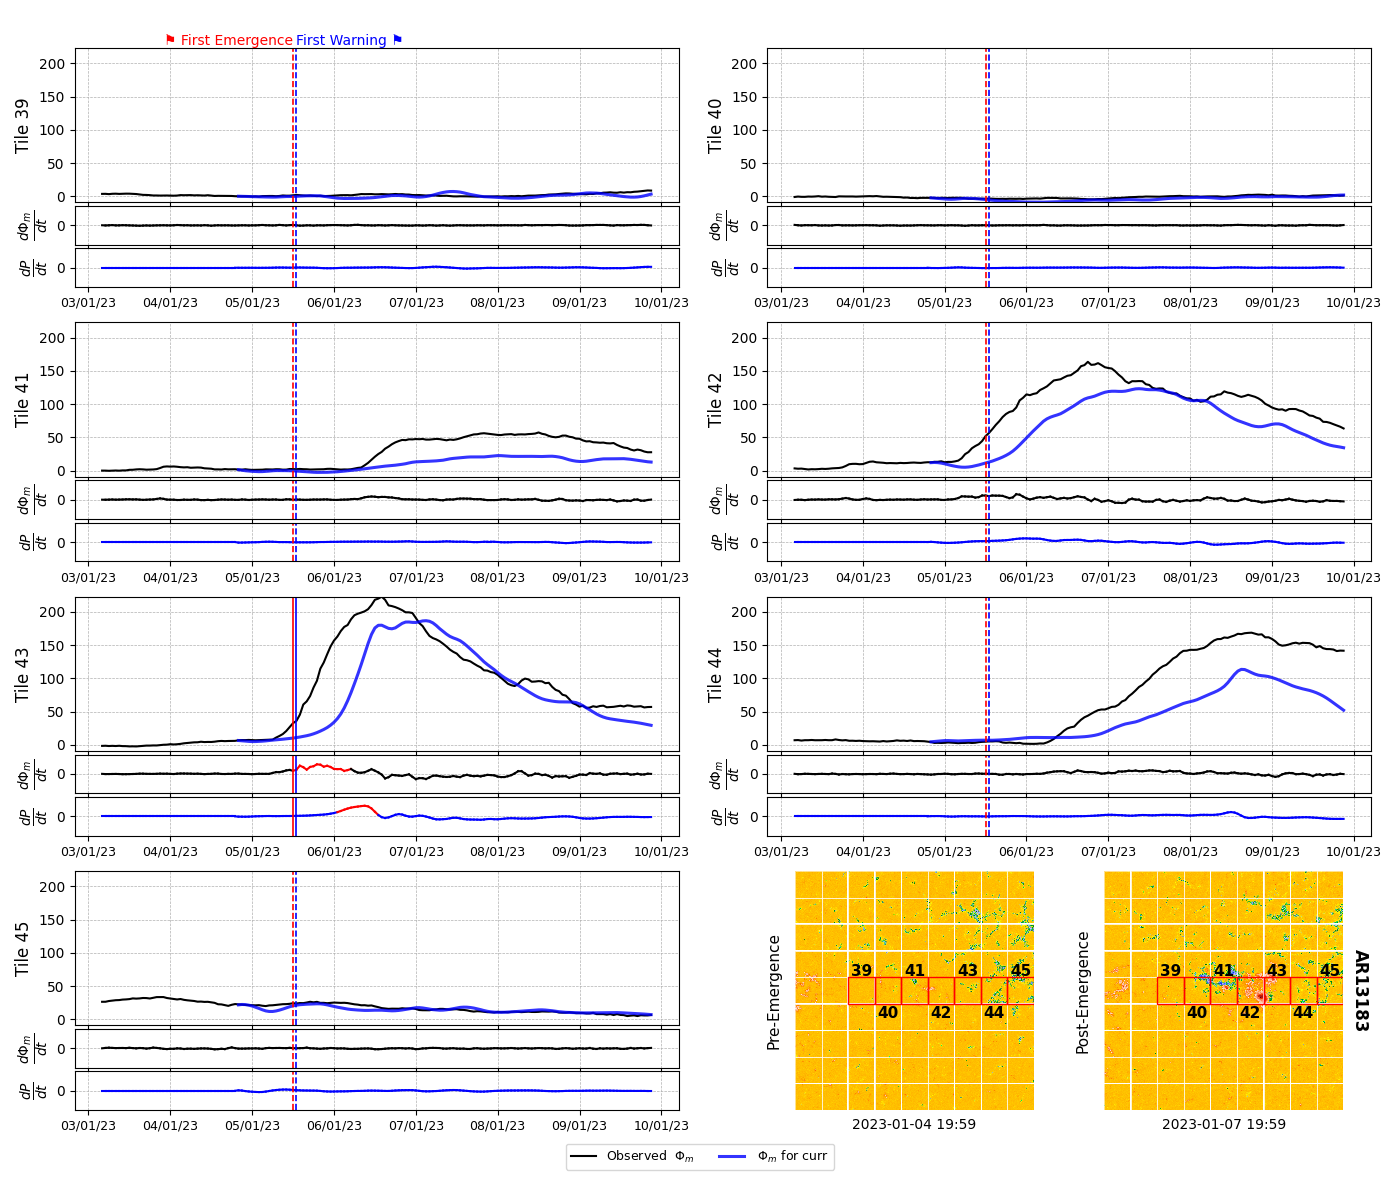
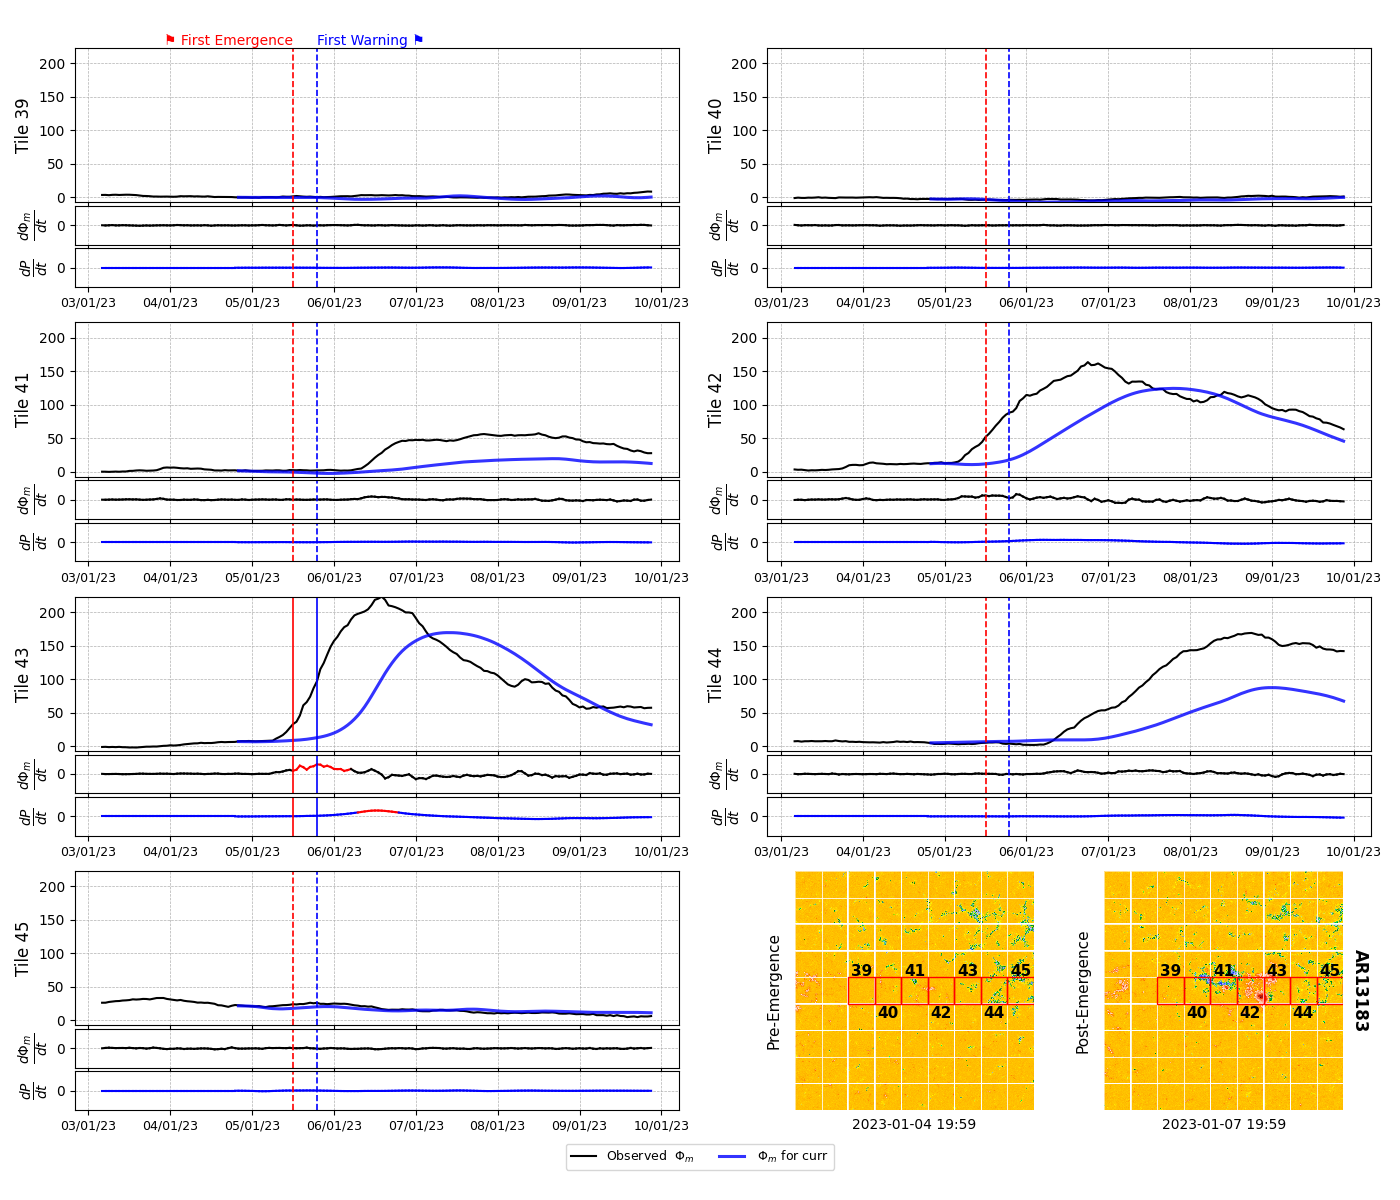
fix: missed prediction fix

diff --git a/lstm/test_lazy_student.py b/lstm/test_lazy_student.py
@@ -1,0 +1,224 @@
+"""Unit test for the 'Lazy Student' fix in emergence timing scoring.
+
+Verifies that:
+1. Flat-line (lazy) models get penalized with max MAE, not 0
+2. Good models that detect emergence get lower MAE
+3. Detection rate = 0 for flat-line, 1.0 for correct predictors
+4. No true emergence → MAE = 0, detection rate = 1.0
+"""
+
+import numpy as np
+import sys
+import os
+
+sys.path.insert(0, os.path.dirname(os.path.abspath(__file__)))
+
+from functions import emergence_indication
+
+
+def compute_emergence_metrics(all_preds_np, all_y_np):
+    """
+    Extracted emergence timing logic from validate_model for isolated testing.
+    Mirrors the exact logic in functions.py validate_model.
+    """
+    threshold = 0.01
+    sust_time = 4
+    num_pred = all_preds_np.shape[1]
+    timing_errors = []
+    true_emergence_count = 0
+    detected_count = 0
+    missed_count = 0
+    false_alarm_count = 0
+
+    for i in range(len(all_preds_np)):
+        d_pred_i = np.gradient(all_preds_np[i])
+        d_true_i = np.gradient(all_y_np[i])
+        ind_pred = emergence_indication(d_pred_i, threshold, sust_time)
+        ind_true = emergence_indication(d_true_i, threshold, sust_time)
+
+        t_pred_i = None
+        t_true_i = None
+        for t_idx in range(len(ind_pred)):
+            if ind_pred[t_idx] == 1 and t_pred_i is None:
+                t_pred_i = t_idx
+            if ind_true[t_idx] == 1 and t_true_i is None:
+                t_true_i = t_idx
+            if t_pred_i is not None and t_true_i is not None:
+                break
+
+        if t_true_i is not None:
+            true_emergence_count += 1
+            if t_pred_i is not None:
+                timing_errors.append(abs(t_pred_i - t_true_i))
+                detected_count += 1
+            else:
+                timing_errors.append(num_pred)
+                missed_count += 1
+        else:
+            if t_pred_i is not None:
+                false_alarm_count += 1
+
+    emergence_timing_mae = np.mean(timing_errors) if timing_errors else 0.0
+    detection_rate = (
+        detected_count / true_emergence_count if true_emergence_count > 0 else 1.0
+    )
+    false_alarm_rate = (
+        false_alarm_count / len(all_preds_np) if len(all_preds_np) > 0 else 0.0
+    )
+
+    return {
+        "MAE": emergence_timing_mae,
+        "Detection_Rate": detection_rate,
+        "False_Alarm_Rate": false_alarm_rate,
+        "True_Emergences": true_emergence_count,
+        "Detected": detected_count,
+        "Missed": missed_count,
+        "False_Alarms": false_alarm_count,
+    }
+
+
+def test_lazy_model_penalized():
+    """A flat-line model should get MAE = num_pred, NOT 0."""
+    print("--- test_lazy_model_penalized ---")
+    num_pred = 12
+
+    # Truth: clear emergence (ramp up starting at step 4)
+    truth = np.zeros((5, num_pred))
+    for i in range(5):
+        truth[i, 4:] = np.linspace(0, 0.5, num_pred - 4)
+
+    # Lazy model: flat line (predicts nothing)
+    lazy_preds = np.ones((5, num_pred)) * 0.5  # constant
+
+    metrics = compute_emergence_metrics(lazy_preds, truth)
+
+    print(f"  Lazy MAE: {metrics['MAE']:.1f} (expected: {num_pred})")
+    print(f"  Detection Rate: {metrics['Detection_Rate']:.2f} (expected: 0.0)")
+    print(f"  Missed: {metrics['Missed']} / {metrics['True_Emergences']}")
+
+    assert metrics["MAE"] == num_pred, (
+        f"Lazy model should get MAE={num_pred}, got {metrics['MAE']}"
+    )
+    assert metrics["Detection_Rate"] == 0.0, (
+        f"Lazy model should have 0 detection rate, got {metrics['Detection_Rate']}"
+    )
+    assert metrics["Missed"] == 5, (
+        f"All 5 emergences should be missed, got {metrics['Missed']}"
+    )
+    print("  PASSED: lazy model correctly penalized\n")
+
+
+def test_good_model_rewarded():
+    """A model that detects emergence correctly should get MAE ≈ 0."""
+    print("--- test_good_model_rewarded ---")
+    num_pred = 12
+
+    # Truth: emergence ramp
+    truth = np.zeros((5, num_pred))
+    for i in range(5):
+        truth[i, 4:] = np.linspace(0, 0.5, num_pred - 4)
+
+    # Good model: matches truth
+    good_preds = truth.copy()
+
+    metrics = compute_emergence_metrics(good_preds, truth)
+
+    print(f"  Good MAE: {metrics['MAE']:.1f} (expected: 0)")
+    print(f"  Detection Rate: {metrics['Detection_Rate']:.2f} (expected: 1.0)")
+
+    assert metrics["MAE"] == 0.0, f"Good model should get MAE=0, got {metrics['MAE']}"
+    assert metrics["Detection_Rate"] == 1.0, (
+        f"Good model should have detection rate 1.0, got {metrics['Detection_Rate']}"
+    )
+    print("  PASSED: good model correctly rewarded\n")
+
+
+def test_good_beats_lazy():
+    """The good model must always score BETTER than the lazy model."""
+    print("--- test_good_beats_lazy ---")
+    num_pred = 12
+
+    truth = np.zeros((5, num_pred))
+    for i in range(5):
+        truth[i, 4:] = np.linspace(0, 0.5, num_pred - 4)
+
+    lazy_preds = np.ones((5, num_pred)) * 0.5
+    good_preds = truth.copy()
+
+    lazy_metrics = compute_emergence_metrics(lazy_preds, truth)
+    good_metrics = compute_emergence_metrics(good_preds, truth)
+
+    print(f"  Lazy MAE: {lazy_metrics['MAE']:.1f}")
+    print(f"  Good MAE: {good_metrics['MAE']:.1f}")
+
+    assert good_metrics["MAE"] < lazy_metrics["MAE"], (
+        f"Good model MAE ({good_metrics['MAE']}) must be lower than lazy ({lazy_metrics['MAE']})"
+    )
+    print("  PASSED: good model beats lazy model\n")
+
+
+def test_no_true_emergence():
+    """When truth has no emergence, MAE=0 and detection rate=1.0 (nothing to miss)."""
+    print("--- test_no_true_emergence ---")
+    num_pred = 12
+
+    # Both flat — no emergence in either
+    truth = np.ones((3, num_pred)) * 0.5
+    preds = np.ones((3, num_pred)) * 0.5
+
+    metrics = compute_emergence_metrics(preds, truth)
+
+    print(f"  MAE: {metrics['MAE']:.1f} (expected: 0)")
+    print(f"  Detection Rate: {metrics['Detection_Rate']:.2f} (expected: 1.0)")
+
+    assert metrics["MAE"] == 0.0, (
+        f"No emergence should give MAE=0, got {metrics['MAE']}"
+    )
+    assert metrics["Detection_Rate"] == 1.0, (
+        f"No emergence should give detection rate=1.0, got {metrics['Detection_Rate']}"
+    )
+    print("  PASSED: no-emergence case handled correctly\n")
+
+
+def test_false_alarm_tracked():
+    """When model predicts emergence but truth has none, false alarm is tracked."""
+    print("--- test_false_alarm_tracked ---")
+    num_pred = 12
+
+    # Truth: flat
+    truth = np.ones((3, num_pred)) * 0.5
+
+    # Prediction: has emergence
+    preds = np.zeros((3, num_pred))
+    for i in range(3):
+        preds[i, 4:] = np.linspace(0, 0.5, num_pred - 4)
+
+    metrics = compute_emergence_metrics(preds, truth)
+
+    print(f"  False Alarms: {metrics['False_Alarms']} (expected: 3)")
+    print(f"  False Alarm Rate: {metrics['False_Alarm_Rate']:.2f}")
+
+    assert metrics["False_Alarms"] == 3, (
+        f"Expected 3 false alarms, got {metrics['False_Alarms']}"
+    )
+    assert metrics["False_Alarm_Rate"] == 1.0, (
+        f"Expected 100% false alarm rate, got {metrics['False_Alarm_Rate']}"
+    )
+    print("  PASSED: false alarms correctly tracked\n")
+
+
+if __name__ == "__main__":
+    print("=" * 60)
+    print("Lazy Student Fix — Unit Tests")
+    print("=" * 60)
+    print()
+
+    test_lazy_model_penalized()
+    test_good_model_rewarded()
+    test_good_beats_lazy()
+    test_no_true_emergence()
+    test_false_alarm_tracked()
+
+    print("=" * 60)
+    print("ALL TESTS PASSED")
+    print("=" * 60)

diff --git a/lstm/grid_search.py b/lstm/grid_search.py
@@ -150,7 +150,7 @@ def main(config, train_data_raw, val_data_raw):  # Accept raw data
     model_name = f"{model_type}_n{config['num_layers']}_h{config['hidden_size']}_lr{config['learning_rate']:.8f}_d{config['dropout']}_w{config['weight_decay']}_{'shuffle' if config['shuffle'] else 'noshuffle'}_custom_weights"
     # Initialize wandb
     wandb.init(
-        project="Active Region RMSE | emergence timing",
+        project="Active Region RMSE | emergence timing missed prediction fix",
         entity=os.environ.get("WANDB_ENTITY"),
         config=config,
         name=f"Fixed_W_0.05_1.0_{model_name}",
@@ -337,9 +337,17 @@ def main(config, train_data_raw, val_data_raw):  # Accept raw data
         val_active_deriv_rmse = val_metrics["Active_Deriv_RMSE"]
         val_bg_rmse = val_metrics["Background_RMSE"]
         val_emergence_mae = val_metrics["Emergence_Timing_MAE"]
+        val_detection_rate = val_metrics["Emergence_Detection_Rate"]
+        val_false_alarm_rate = val_metrics["Emergence_False_Alarm_Rate"]
 
-        # Composite metric: normalize MAE by 0.05 so 1 timestep error ≈ 0.05 RMSE
-        composite_score = 0.8 * val_active_deriv_rmse + 0.2 * (val_emergence_mae * 0.05)
+        # Composite metric: 70% derivative accuracy, 20% emergence timing, 10% detection reliability
+        # Detection penalty ensures models that never predict emergence are punished
+        detection_penalty = 0.2 * (1.0 - val_detection_rate)
+        composite_score = (
+            0.7 * val_active_deriv_rmse
+            + 0.2 * (val_emergence_mae * 0.05)
+            + detection_penalty
+        )
 
         lr = scheduler.get_last_lr()[0]
         # Schedule on composite score
@@ -357,6 +365,8 @@ def main(config, train_data_raw, val_data_raw):  # Accept raw data
             "Active_Deriv_RMSE": val_active_deriv_rmse,
             "Background_RMSE": val_bg_rmse,
             "Emergence_Timing_MAE": val_emergence_mae,
+            "Emergence_Detection_Rate": val_detection_rate,
+            "Emergence_False_Alarm_Rate": val_false_alarm_rate,
             "Composite_Score": composite_score,
         }
 
@@ -380,6 +390,8 @@ def main(config, train_data_raw, val_data_raw):  # Accept raw data
                     "best_weighted_deriv_rmse": val_weighted_deriv_rmse,
                     "best_active_deriv_rmse": val_active_deriv_rmse,
                     "best_emergence_timing_mae": val_emergence_mae,
+                    "best_detection_rate": val_detection_rate,
+                    "best_false_alarm_rate": val_false_alarm_rate,
                     "best_composite_score": best_val_rmse,
                     "epoch": epoch,
                 },

diff --git a/lstm/functions.py b/lstm/functions.py
@@ -959,9 +959,17 @@ def validate_model(model, dataloader, device):
         bg_rmse = rmse
 
     # 5. Emergence Timing MAE (non-differentiable, using existing emergence_indication)
+    #    Fixes the "lazy student" loophole: models that never predict emergence
+    #    used to get MAE=0.0. Now missed emergences are penalized with max error.
     threshold = 0.01
     sust_time = 4
+    num_pred = all_preds_np.shape[1]  # Max possible timing error
     timing_errors = []
+    true_emergence_count = 0
+    detected_count = 0
+    missed_count = 0
+    false_alarm_count = 0
+
     for i in range(len(all_preds_np)):
         d_pred_i = np.gradient(all_preds_np[i])
         d_true_i = np.gradient(all_y_np[i])
@@ -979,11 +987,27 @@ def validate_model(model, dataloader, device):
             if t_pred_i is not None and t_true_i is not None:
                 break
 
-        # Only count if both have emergence
-        if t_pred_i is not None and t_true_i is not None:
-            timing_errors.append(abs(t_pred_i - t_true_i))
+        if t_true_i is not None:  # Ground truth HAS emergence
+            true_emergence_count += 1
+            if t_pred_i is not None:  # Model also predicts emergence
+                timing_errors.append(abs(t_pred_i - t_true_i))
+                detected_count += 1
+            else:  # Model MISSED it — penalize with max error
+                timing_errors.append(num_pred)
+                missed_count += 1
+        else:  # Ground truth has NO emergence
+            if t_pred_i is not None:  # False alarm
+                false_alarm_count += 1
 
     emergence_timing_mae = np.mean(timing_errors) if timing_errors else 0.0
+    # Detection rate: fraction of true emergences that were detected (recall)
+    # Defaults to 1.0 when there are no true emergences (nothing to miss)
+    detection_rate = (
+        detected_count / true_emergence_count if true_emergence_count > 0 else 1.0
+    )
+    false_alarm_rate = (
+        false_alarm_count / len(all_preds_np) if len(all_preds_np) > 0 else 0.0
+    )
 
     return {
         "RMSE": rmse,
@@ -994,6 +1018,8 @@ def validate_model(model, dataloader, device):
         "Active_Deriv_RMSE": active_deriv_rmse,
         "Background_RMSE": bg_rmse,
         "Emergence_Timing_MAE": emergence_timing_mae,
+        "Emergence_Detection_Rate": detection_rate,
+        "Emergence_False_Alarm_Rate": false_alarm_rate,
     }
 
 

diff --git a/lstm/test_models_denormalized.py b/lstm/test_models_denormalized.py
@@ -701,7 +701,7 @@ if __name__ == "__main__":
     models_to_compare = [
         (
             "curr",
-            "../models/VanillaLSTM_n3_h8_lr0.00307792_d0_w8.01339448970107e-06_shuffle_custom_weights.pth",
+            "../models/VanillaLSTM_n2_h2_lr0.00014324_d0_w0.00035337257093670207_shuffle_custom_weights.pth",
         ),
     ]
 
